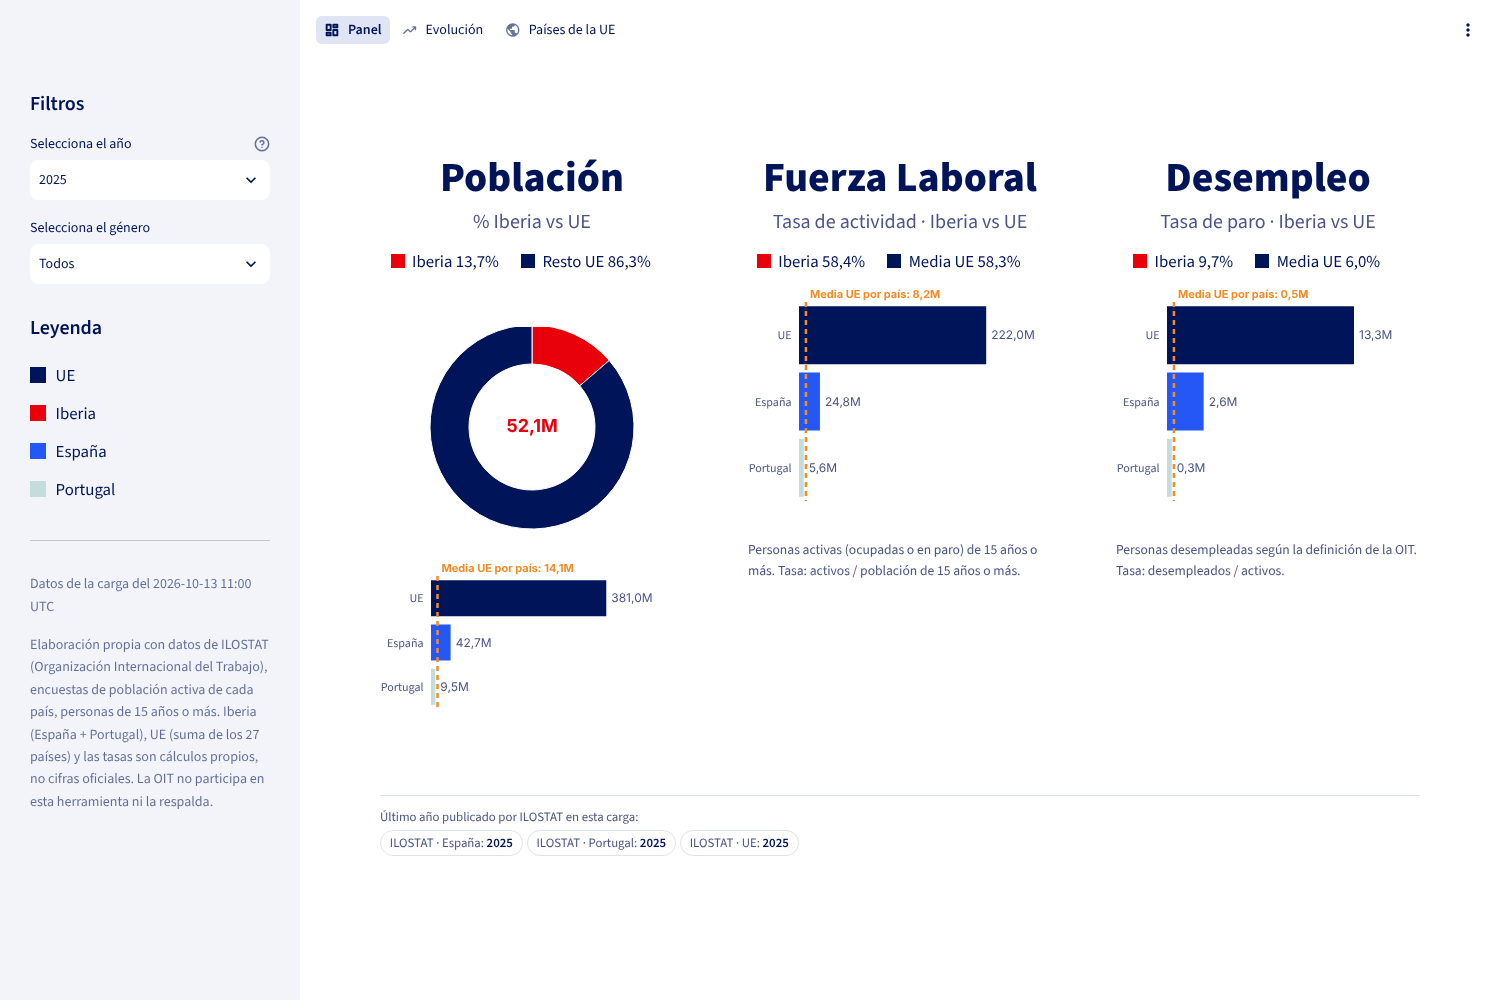
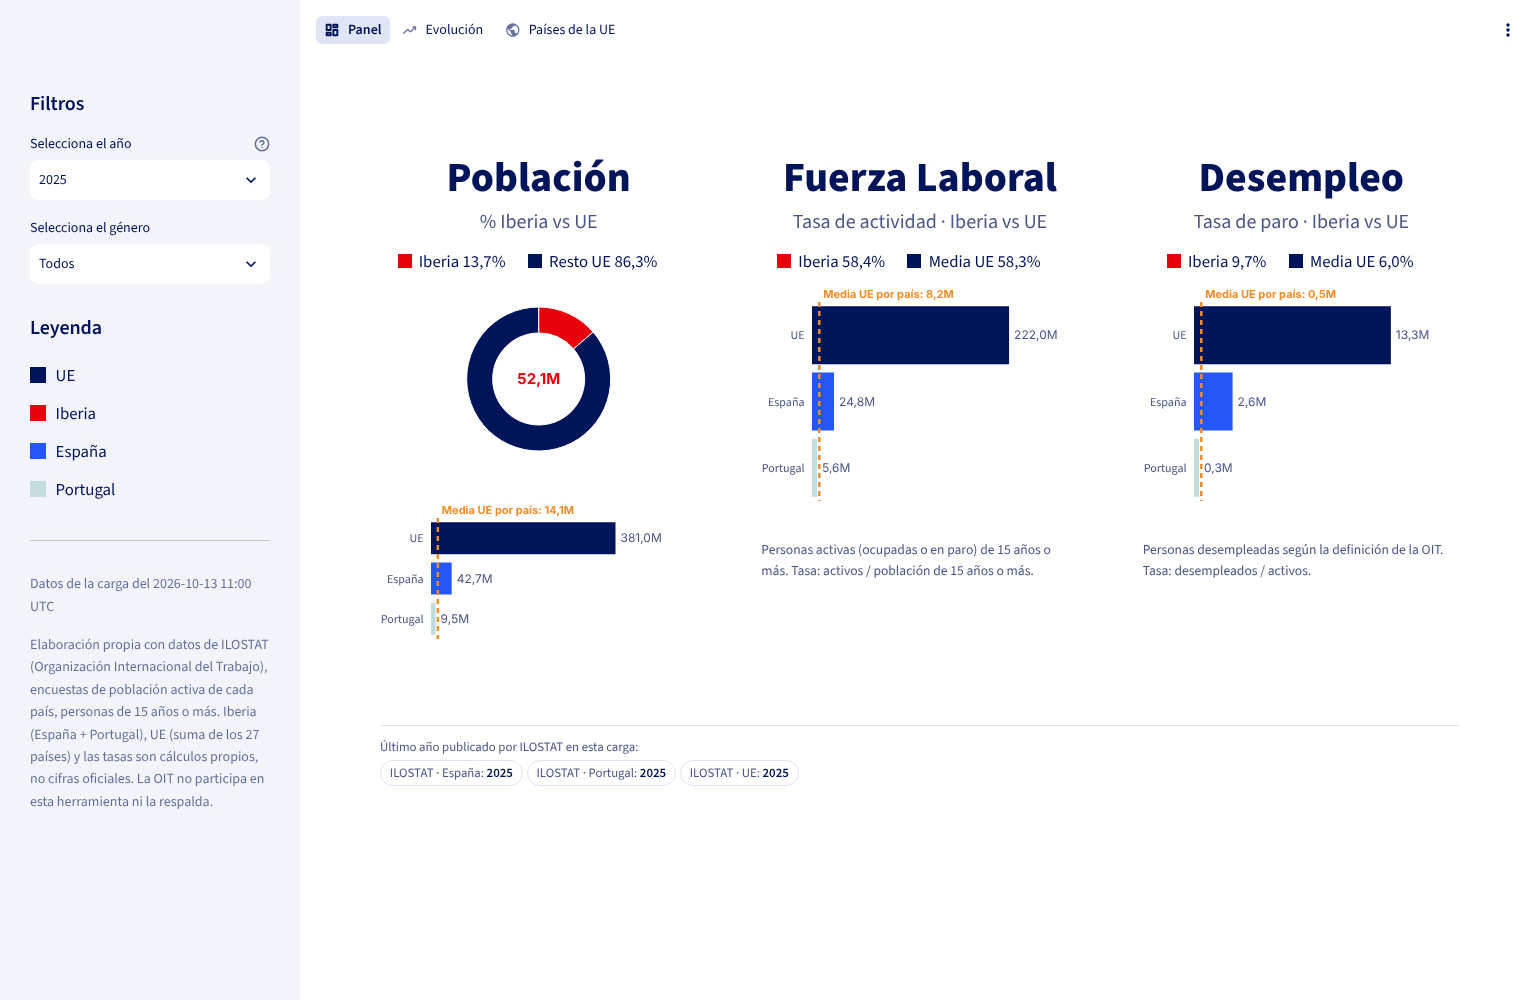
Panel: dona de población más pequeña y con margen (no se corta) y barras más compactas para nivelar las columnas
Claude-Session: https://claude.ai/code/session_017JAXTdnK31SFbhrbdEadFB

diff --git a/streamlit_app/graficos.py b/streamlit_app/graficos.py
@@ -64,13 +64,13 @@ def dona(partes, alto=234, centro=None):
         return
     d["pct"] = 100 * d.valor / d.valor.sum()
     d["orden"] = range(len(d))
-    radio = alto // 2 - 8  # la dona cabe entera en la altura del gráfico
-    ch = alt.Chart(d).mark_arc(innerRadius=int(radio * 0.62), outerRadius=radio, stroke="#ffffff", strokeWidth=1).encode(
+    radio = 72  # tamaño fijo y pequeño, con margen: no se corta ni por arriba ni en columnas estrechas
+    ch = alt.Chart(d).mark_arc(innerRadius=46, outerRadius=radio, stroke="#ffffff", strokeWidth=1).encode(
         theta=alt.Theta("valor:Q", stack=True), order=alt.Order("orden:Q"),
         color=alt.Color("color:N", scale=None),
         tooltip=[alt.Tooltip("parte:N", title=""), alt.Tooltip("pct:Q", format=",.1f", title="%")])
     if centro:
-        ch += alt.Chart(pd.DataFrame({"t": [centro]})).mark_text(fontSize=18, fontWeight="bold", color=COLOR["IBERIA"]).encode(text="t:N")
+        ch += alt.Chart(pd.DataFrame({"t": [centro]})).mark_text(fontSize=15, fontWeight="bold", color=COLOR["IBERIA"]).encode(text="t:N")
     mostrar(ch.properties(height=alto))
 
 

diff --git a/streamlit_app/paginas/panel.py b/streamlit_app/paginas/panel.py
@@ -23,11 +23,10 @@ with c[0]:
     relato.titulo("Población", "% Iberia vs UE")
     cuota = fila("IBERIA", "cuota_ue_poblacion")
     g.leyenda([(g.COLOR["IBERIA"], f"Iberia {pct(cuota)}"), (g.COLOR["UE27"], f"Resto UE {pct(100 - cuota) if cuota is not None else '–'}")])
-    st.markdown("<div style='height:38px'></div>", unsafe_allow_html=True)  # baja la dona ~1 cm
     g.dona([("Iberia", fila("IBERIA", "poblacion"), g.COLOR["IBERIA"]),
             ("Resto de la UE", (fila("UE27", "poblacion") or 0) - (fila("IBERIA", "poblacion") or 0), g.COLOR["UE27"])],
-           alto=220, centro=g.millones(fila("IBERIA", "poblacion")))
-    g.barras_areas(barras, "poblacion", alto_fila=56, media=media("poblacion"))
+           alto=200, centro=g.millones(fila("IBERIA", "poblacion")))
+    g.barras_areas(barras, "poblacion", alto_fila=52, media=media("poblacion"))
 with c[1]:
     relato.titulo("Fuerza Laboral", "Tasa de actividad · Iberia vs UE")
     g.leyenda([(g.COLOR["IBERIA"], f"Iberia {pct(fila('IBERIA', 'tasa_actividad'))}"), (g.COLOR["UE27"], f"Media UE {pct(fila('UE27', 'tasa_actividad'))}")])
